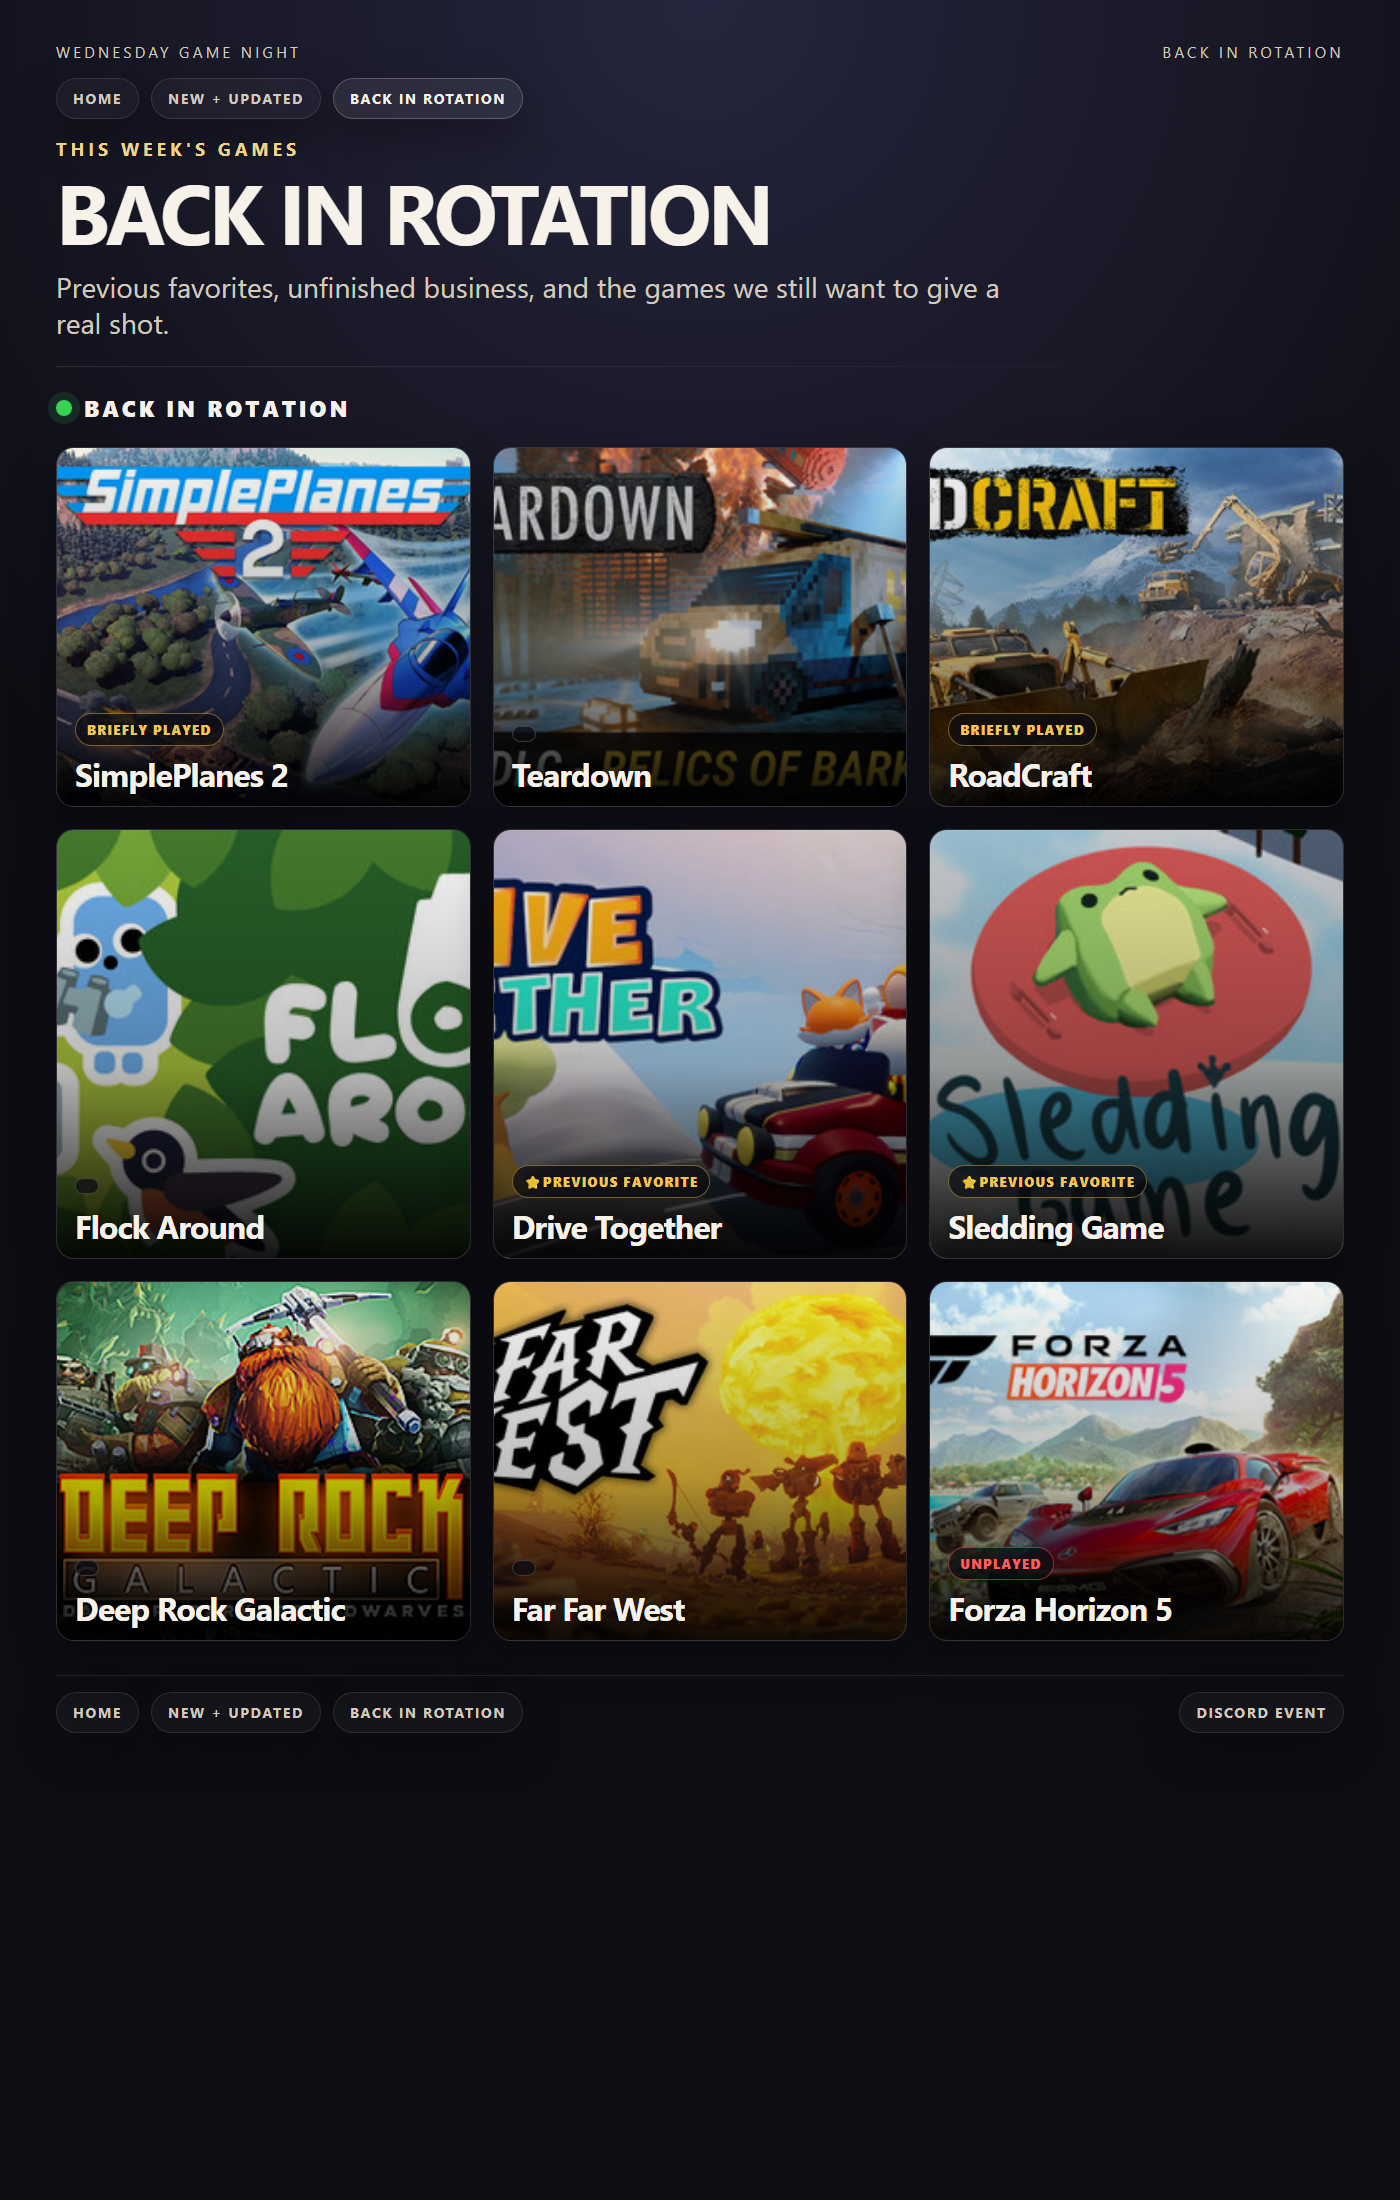
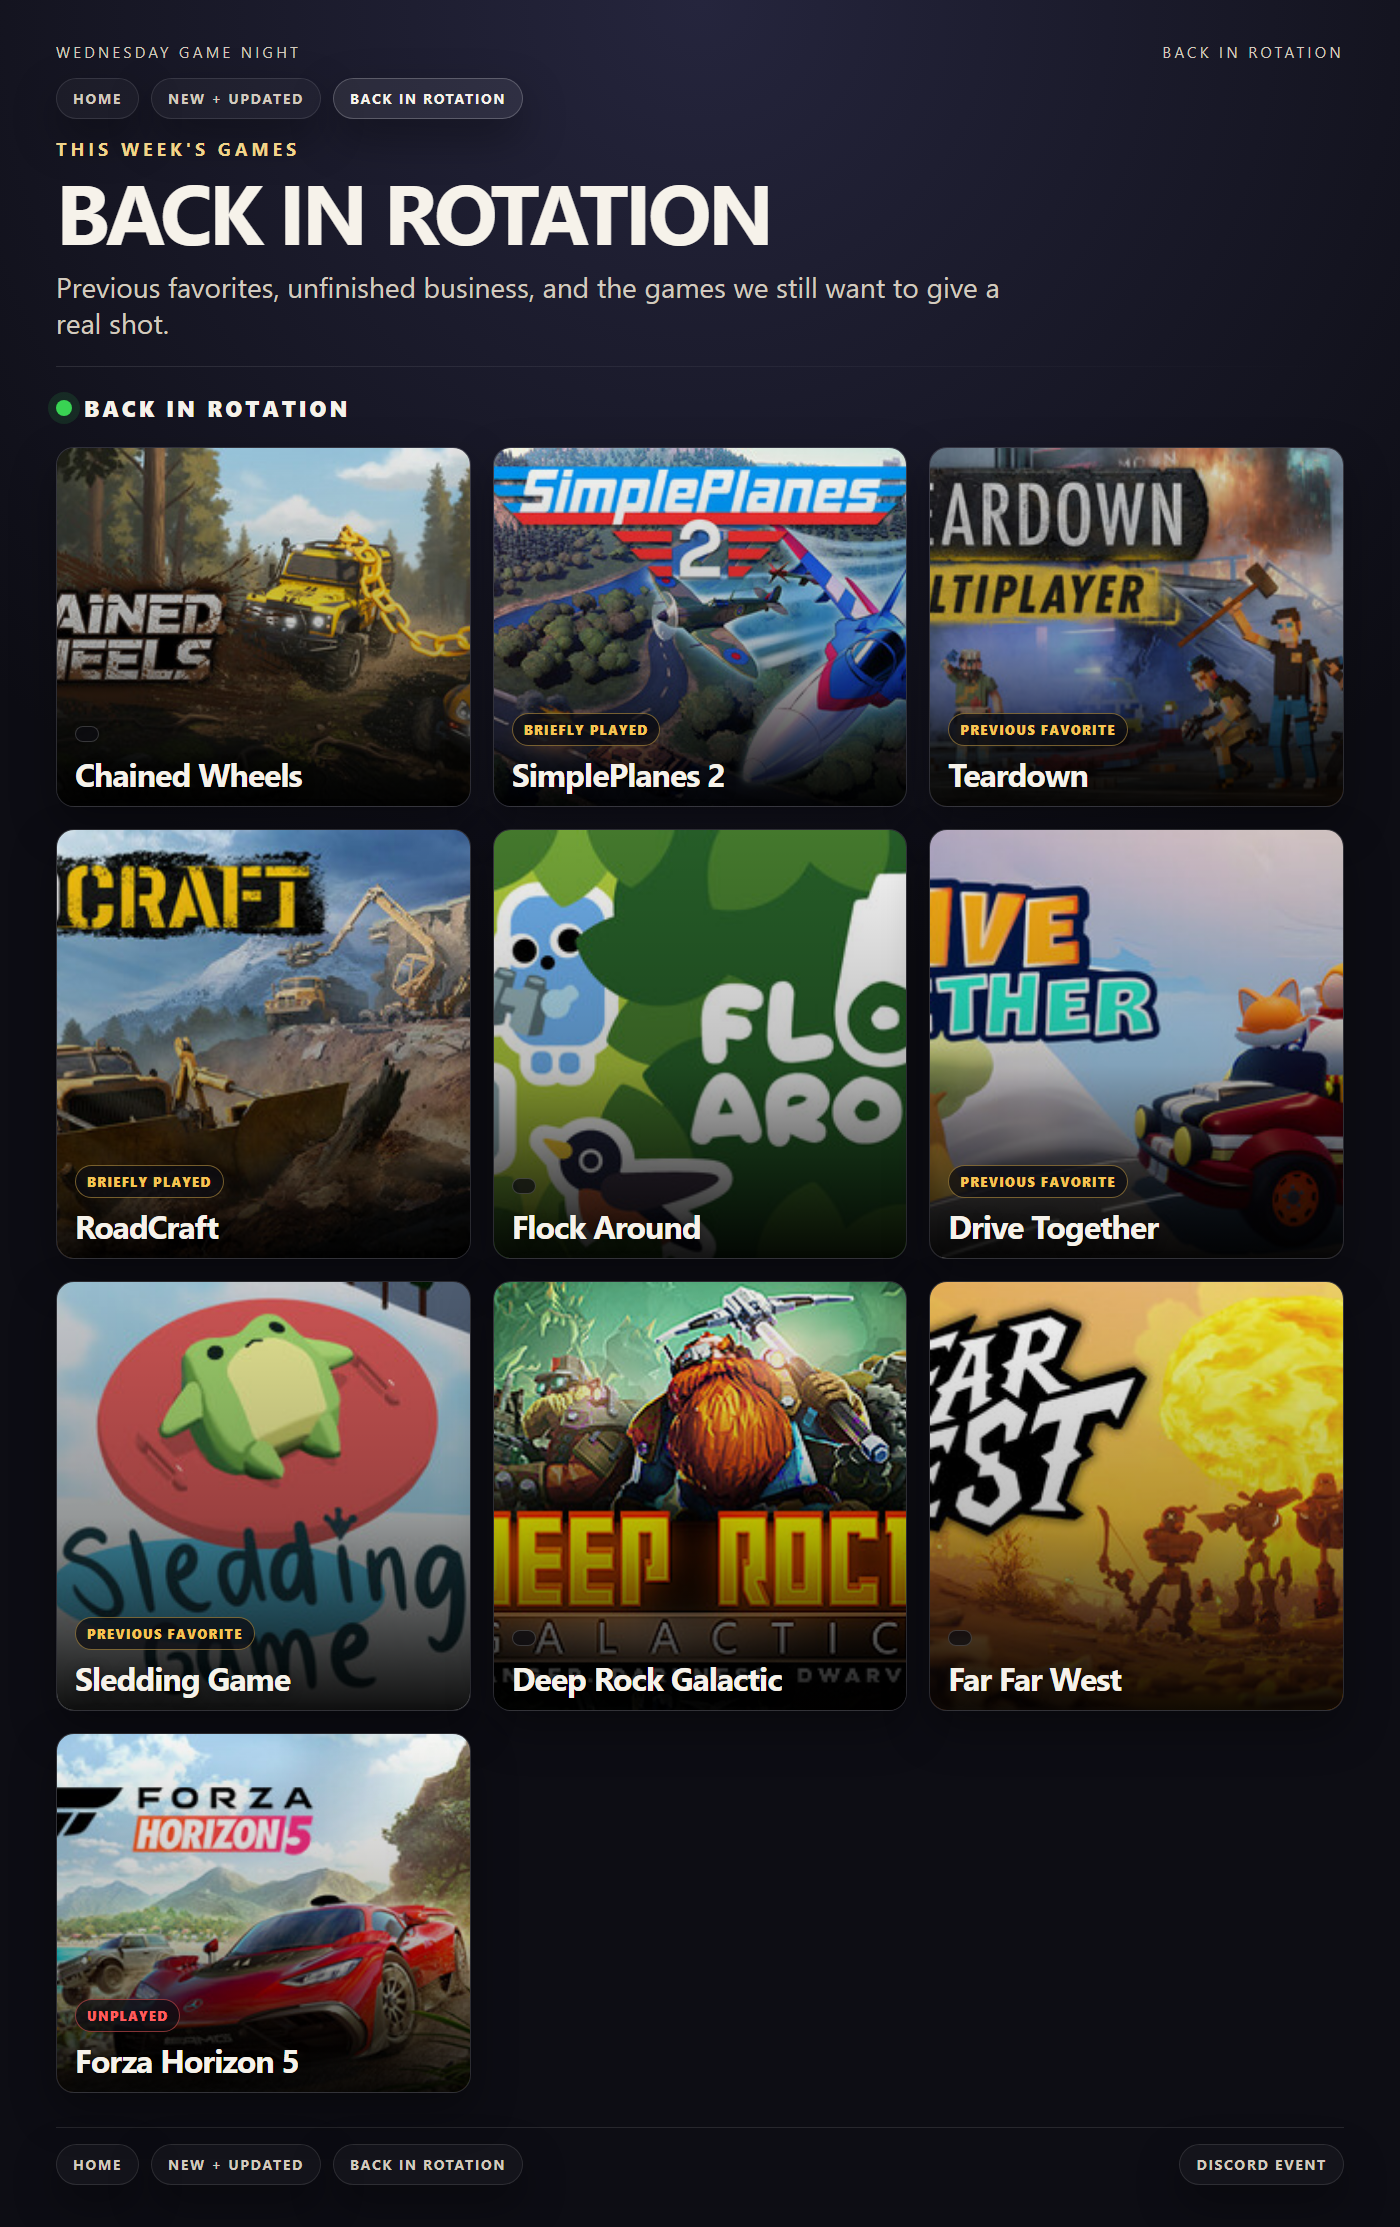
GameNight 06/24-0.1

diff --git a/docs/back-in-rotation.html b/docs/back-in-rotation.html
@@ -329,7 +329,14 @@ h1{
     </header>
     <div class="rule"></div>
     <div class="section-label"><span class="dot"></span>Back in Rotation</div>
-    <section class="grid"><a class="tile" href="https://store.steampowered.com/app/2840470/SimplePlanes_2/?snr=1_7_15__13" target="_blank" rel="noreferrer">
+    <section class="grid"><a class="tile" href="https://store.steampowered.com/app/4243690/Chained_Wheels/?snr=1_7_15__13" target="_blank" rel="noreferrer">
+  <img src="https://shared.akamai.steamstatic.com/store_item_assets/steam/apps/4243690/e7646480507c8b4333097faef96c5dd300f8f67e/header.jpg?t=1776592605" alt="Chained Wheels cover art">
+  <div class="shade"></div>
+  <div class="meta">
+    <span class="badge "></span>
+    <h3>Chained Wheels</h3>
+  </div>
+</a><a class="tile" href="https://store.steampowered.com/app/2840470/SimplePlanes_2/?snr=1_7_15__13" target="_blank" rel="noreferrer">
   <img src="https://shared.akamai.steamstatic.com/store_item_assets/steam/apps/2840470/910f2b140ddd11546bdc5af6ba9f9b3da165f773/header.jpg?t=1777062499" alt="SimplePlanes 2 cover art">
   <div class="shade"></div>
   <div class="meta">
@@ -337,10 +344,10 @@ h1{
     <h3>SimplePlanes 2</h3>
   </div>
 </a><a class="tile" href="https://store.steampowered.com/app/1167630/Teardown/?snr=1_7_15__13" target="_blank" rel="noreferrer">
-  <img src="https://shared.akamai.steamstatic.com/store_item_assets/steam/apps/1167630/46a7251262c758ace9ffc7332264a8a5f79a5da8/header_alt_assets_6.jpg?t=1781163092" alt="Teardown cover art">
+  <img src="https://shared.akamai.steamstatic.com/store_item_assets/steam/apps/1167630/9372e21ac8ec66b087400abe2b9150d378f6e52f/header_alt_assets_7.jpg?t=1781525152" alt="Teardown cover art">
   <div class="shade"></div>
   <div class="meta">
-    <span class="badge "></span>
+    <span class="badge previous_favorite">PREVIOUS FAVORITE</span>
     <h3>Teardown</h3>
   </div>
 </a><a class="tile" href="https://store.steampowered.com/app/2104890/RoadCraft/?snr=1_7_15__13" target="_blank" rel="noreferrer">
@@ -351,7 +358,7 @@ h1{
     <h3>RoadCraft</h3>
   </div>
 </a><a class="tile" href="https://store.steampowered.com/app/3618030/Flock_Around/?snr=1_7_15__13" target="_blank" rel="noreferrer">
-  <img src="https://shared.akamai.steamstatic.com/store_item_assets/steam/apps/3618030/1410006e42c90a7929161a991ff087ecc85f6aa7/header.jpg?t=1781223915" alt="Flock Around cover art">
+  <img src="https://shared.akamai.steamstatic.com/store_item_assets/steam/apps/3618030/1410006e42c90a7929161a991ff087ecc85f6aa7/header.jpg?t=1781628006" alt="Flock Around cover art">
   <div class="shade"></div>
   <div class="meta">
     <span class="badge "></span>
@@ -361,14 +368,14 @@ h1{
   <img src="https://shared.akamai.steamstatic.com/store_item_assets/steam/apps/4117320/76b477b044006902aafa14e31fb07c7468b13b6b/header.jpg?t=1778864394" alt="Drive Together cover art">
   <div class="shade"></div>
   <div class="meta">
-    <span class="badge previous_favorite">⭐PREVIOUS FAVORITE</span>
+    <span class="badge previous_favorite">PREVIOUS FAVORITE</span>
     <h3>Drive Together</h3>
   </div>
 </a><a class="tile highlight" href="https://store.steampowered.com/app/3438850/Sledding_Game/?snr=1_7_15__13" target="_blank" rel="noreferrer">
   <img src="https://shared.akamai.steamstatic.com/store_item_assets/steam/apps/3438850/header.jpg?t=1778060929" alt="Sledding Game cover art">
   <div class="shade"></div>
   <div class="meta">
-    <span class="badge previous_favorite">⭐PREVIOUS FAVORITE</span>
+    <span class="badge previous_favorite">PREVIOUS FAVORITE</span>
     <h3>Sledding Game</h3>
   </div>
 </a><a class="tile" href="https://store.steampowered.com/app/548430/Deep_Rock_Galactic/?snr=1_7_15__13" target="_blank" rel="noreferrer">
@@ -379,7 +386,7 @@ h1{
     <h3>Deep Rock Galactic</h3>
   </div>
 </a><a class="tile" href="https://store.steampowered.com/app/3124540/Far_Far_West/?snr=1_7_15__13" target="_blank" rel="noreferrer">
-  <img src="https://shared.akamai.steamstatic.com/store_item_assets/steam/apps/3124540/2d55092d45b1784dcc7cb0ba6ad3f919e62eb5d0/header.jpg?t=1780491814" alt="Far Far West cover art">
+  <img src="https://shared.akamai.steamstatic.com/store_item_assets/steam/apps/3124540/2d55092d45b1784dcc7cb0ba6ad3f919e62eb5d0/header.jpg?t=1781702029" alt="Far Far West cover art">
   <div class="shade"></div>
   <div class="meta">
     <span class="badge "></span>

diff --git a/docs/new-and-updated.html b/docs/new-and-updated.html
@@ -329,7 +329,21 @@ h1{
     </header>
     <div class="rule"></div>
     <div class="section-label"><span class="dot"></span>New This Week + Updated</div>
-    <section class="grid"><a class="tile highlight" href="https://store.steampowered.com/app/4244510/Pratfall/?snr=1_7_15__13" target="_blank" rel="noreferrer">
+    <section class="grid"><a class="tile highlight" href="https://store.steampowered.com/app/3989960/Frog_Sqwad/?snr=1_7_15__13" target="_blank" rel="noreferrer">
+  <img src="https://shared.akamai.steamstatic.com/store_item_assets/steam/apps/3989960/7cf40cfaff04f6a192df76a81d9f38463b73c50e/header.jpg?t=1781613814" alt="Frog Sqwad cover art">
+  <div class="shade"></div>
+  <div class="meta">
+    <span class="badge new">NEW</span>
+    <h3>Frog Sqwad</h3>
+  </div>
+</a><a class="tile highlight" href="https://store.steampowered.com/app/2651350/Slip__Skid/?snr=1_7_15__13" target="_blank" rel="noreferrer">
+  <img src="https://shared.akamai.steamstatic.com/store_item_assets/steam/apps/2651350/baf6c1e9d80c953489c7480b55034fb504f93cf7/header.jpg?t=1780495065" alt="Slip &amp; Skid cover art">
+  <div class="shade"></div>
+  <div class="meta">
+    <span class="badge new">NEW</span>
+    <h3>Slip &amp; Skid</h3>
+  </div>
+</a><a class="tile highlight" href="https://store.steampowered.com/app/4244510/Pratfall/?snr=1_7_15__13" target="_blank" rel="noreferrer">
   <img src="https://shared.akamai.steamstatic.com/store_item_assets/steam/apps/4244510/aa5134d11626034935daa974478c834d03d73f54/header.jpg?t=1780503325" alt="Pratfall cover art">
   <div class="shade"></div>
   <div class="meta">
@@ -337,10 +351,10 @@ h1{
     <h3>Pratfall</h3>
   </div>
 </a><a class="tile" href="https://store.steampowered.com/app/3761880/Night_Shippers/?snr=1_7_15__13" target="_blank" rel="noreferrer">
-  <img src="https://shared.akamai.steamstatic.com/store_item_assets/steam/apps/3761880/a7747d30784d6a8b7e86198d5bd336715ae805c3/header.jpg?t=1775551295" alt="Night Shippers cover art">
+  <img src="https://shared.akamai.steamstatic.com/store_item_assets/steam/apps/3761880/a7747d30784d6a8b7e86198d5bd336715ae805c3/header.jpg?t=1781524054" alt="Night Shippers cover art">
   <div class="shade"></div>
   <div class="meta">
-    <span class="badge new">NEW</span>
+    <span class="badge briefly_played">BRIEFLY PLAYED</span>
     <h3>Night Shippers</h3>
   </div>
 </a><a class="tile" href="https://store.steampowered.com/app/3583210/Crashout_Crew/?snr=1_7_15__13" target="_blank" rel="noreferrer">
@@ -349,13 +363,6 @@ h1{
   <div class="meta">
     <span class="badge new">NEW</span>
     <h3>Crashout Crew</h3>
-  </div>
-</a><a class="tile" href="https://store.steampowered.com/app/4243690/Chained_Wheels/?snr=1_7_15__13" target="_blank" rel="noreferrer">
-  <img src="https://shared.akamai.steamstatic.com/store_item_assets/steam/apps/4243690/e7646480507c8b4333097faef96c5dd300f8f67e/header.jpg?t=1776592605" alt="Chained Wheels cover art">
-  <div class="shade"></div>
-  <div class="meta">
-    <span class="badge new">NEW</span>
-    <h3>Chained Wheels</h3>
   </div>
 </a><a class="tile highlight updated-block" href="https://store.steampowered.com/app/3949040/RV_There_Yet/?snr=1_7_15__13" target="_blank" rel="noreferrer">
   <img src="https://shared.akamai.steamstatic.com/store_item_assets/steam/apps/3949040/cae24b4ed7f4531be51f0d63f785b7d253f92dc3/header.jpg?t=1778071815" alt="RV There Yet? cover art">
